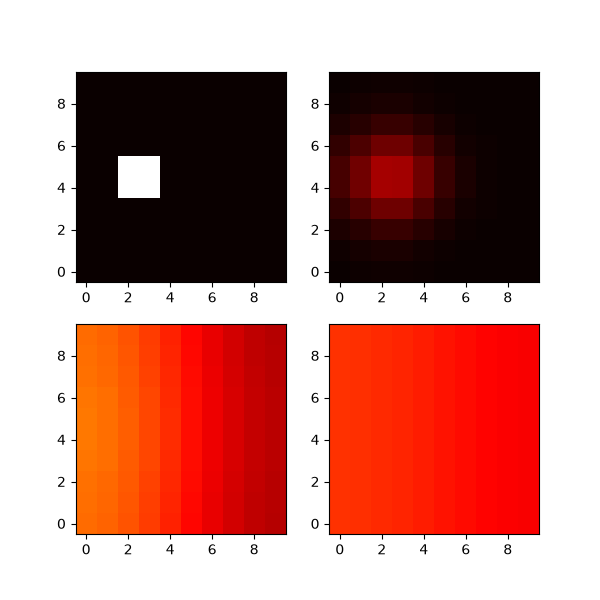
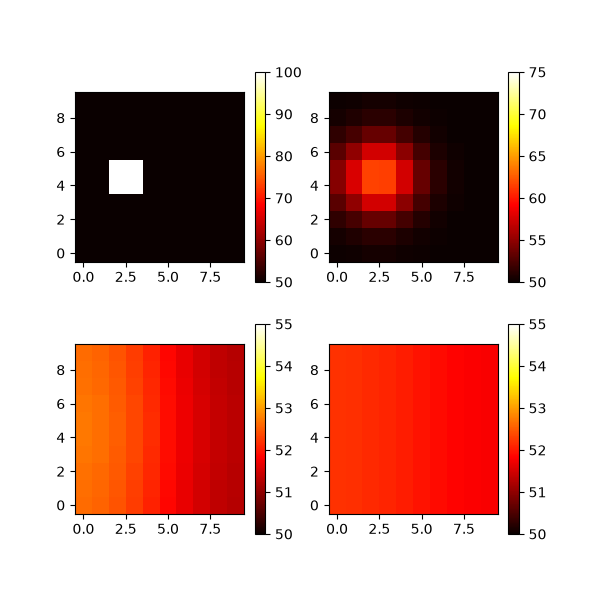
Difusión terminada

diff --git a/Casa/Semana_9/PLOTS_CarrascoManuel_S9CASA_EDP.py b/Casa/Semana_9/PLOTS_CarrascoManuel_S9CASA_EDP.py
@@ -14,7 +14,7 @@ vmin = np.min(tensor_temperaturaf)
 vmax = np.max(tensor_temperaturaf)
 
 # Preparamos el objeto de la imagen vacío o con ceros
-ax[0,0].imshow(
+im0= ax[0,0].imshow(
     tensor_temperaturaf[0,:,:], 
     cmap='hot', 
     vmin=vmin, 
@@ -22,28 +22,34 @@ ax[0,0].imshow(
     origin='lower', 
 
 )
-ax[0,1].imshow(
+fig.colorbar(im0, ax=ax[0,0])
+
+im1= ax[0,1].imshow(
     tensor_temperaturaf[500,:,:], 
     cmap='hot', 
     vmin=vmin, 
-    vmax=vmax, 
+    vmax=75, 
     origin='lower', 
 
 )
-ax[1,0].imshow(
+fig.colorbar(im1, ax=ax[0,1])
+im2=ax[1,0].imshow(
     tensor_temperaturaf[5000,:,:], 
     cmap='hot', 
     vmin=vmin, 
     vmax=50.5, 
     origin='lower', 
 )
-ax[1,1].imshow(
+
+fig.colorbar(im2, ax=ax[1,0])
+im3=ax[1,1].imshow(
     tensor_temperaturaf[10000,:,:], 
     cmap='hot', 
     vmin=vmin, 
     vmax=50.1, 
     origin='lower', 
 )
+fig.colorbar(im3, ax=ax[1,1])
 plt.savefig("Difusion.png")
 
 
@@ -57,7 +63,7 @@ vmin = np.min(tensor_temperaturaa)
 vmax = np.max(tensor_temperaturaa)
 
 # Preparamos el objeto de la imagen vacío o con ceros
-ax[0,0].imshow(
+im0=ax[0,0].imshow(
     tensor_temperaturaa[0,:,:], 
     cmap='hot', 
     vmin=vmin, 
@@ -65,26 +71,30 @@ ax[0,0].imshow(
     origin='lower', 
 
 )
-ax[0,1].imshow(
+fig.colorbar(im0, ax=ax[0,0])
+im1=ax[0,1].imshow(
     tensor_temperaturaa[500,:,:], 
     cmap='hot', 
     vmin=vmin, 
-    vmax=vmax, 
+    vmax=75, 
     origin='lower', 
 
 )
-ax[1,0].imshow(
+fig.colorbar(im1, ax=ax[0,1])
+im2=ax[1,0].imshow(
     tensor_temperaturaa[5000,:,:], 
     cmap='hot', 
     vmin=vmin, 
     vmax=55, 
     origin='lower', 
 )
-ax[1,1].imshow(
+fig.colorbar(im2, ax=ax[1,0])
+im3=ax[1,1].imshow(
     tensor_temperaturaa[10000,:,:], 
     cmap='hot', 
     vmin=vmin, 
     vmax=55, 
     origin='lower', 
 )
+fig.colorbar(im3, ax=ax[1,1])
 plt.savefig("Difusion_Ab.png")
